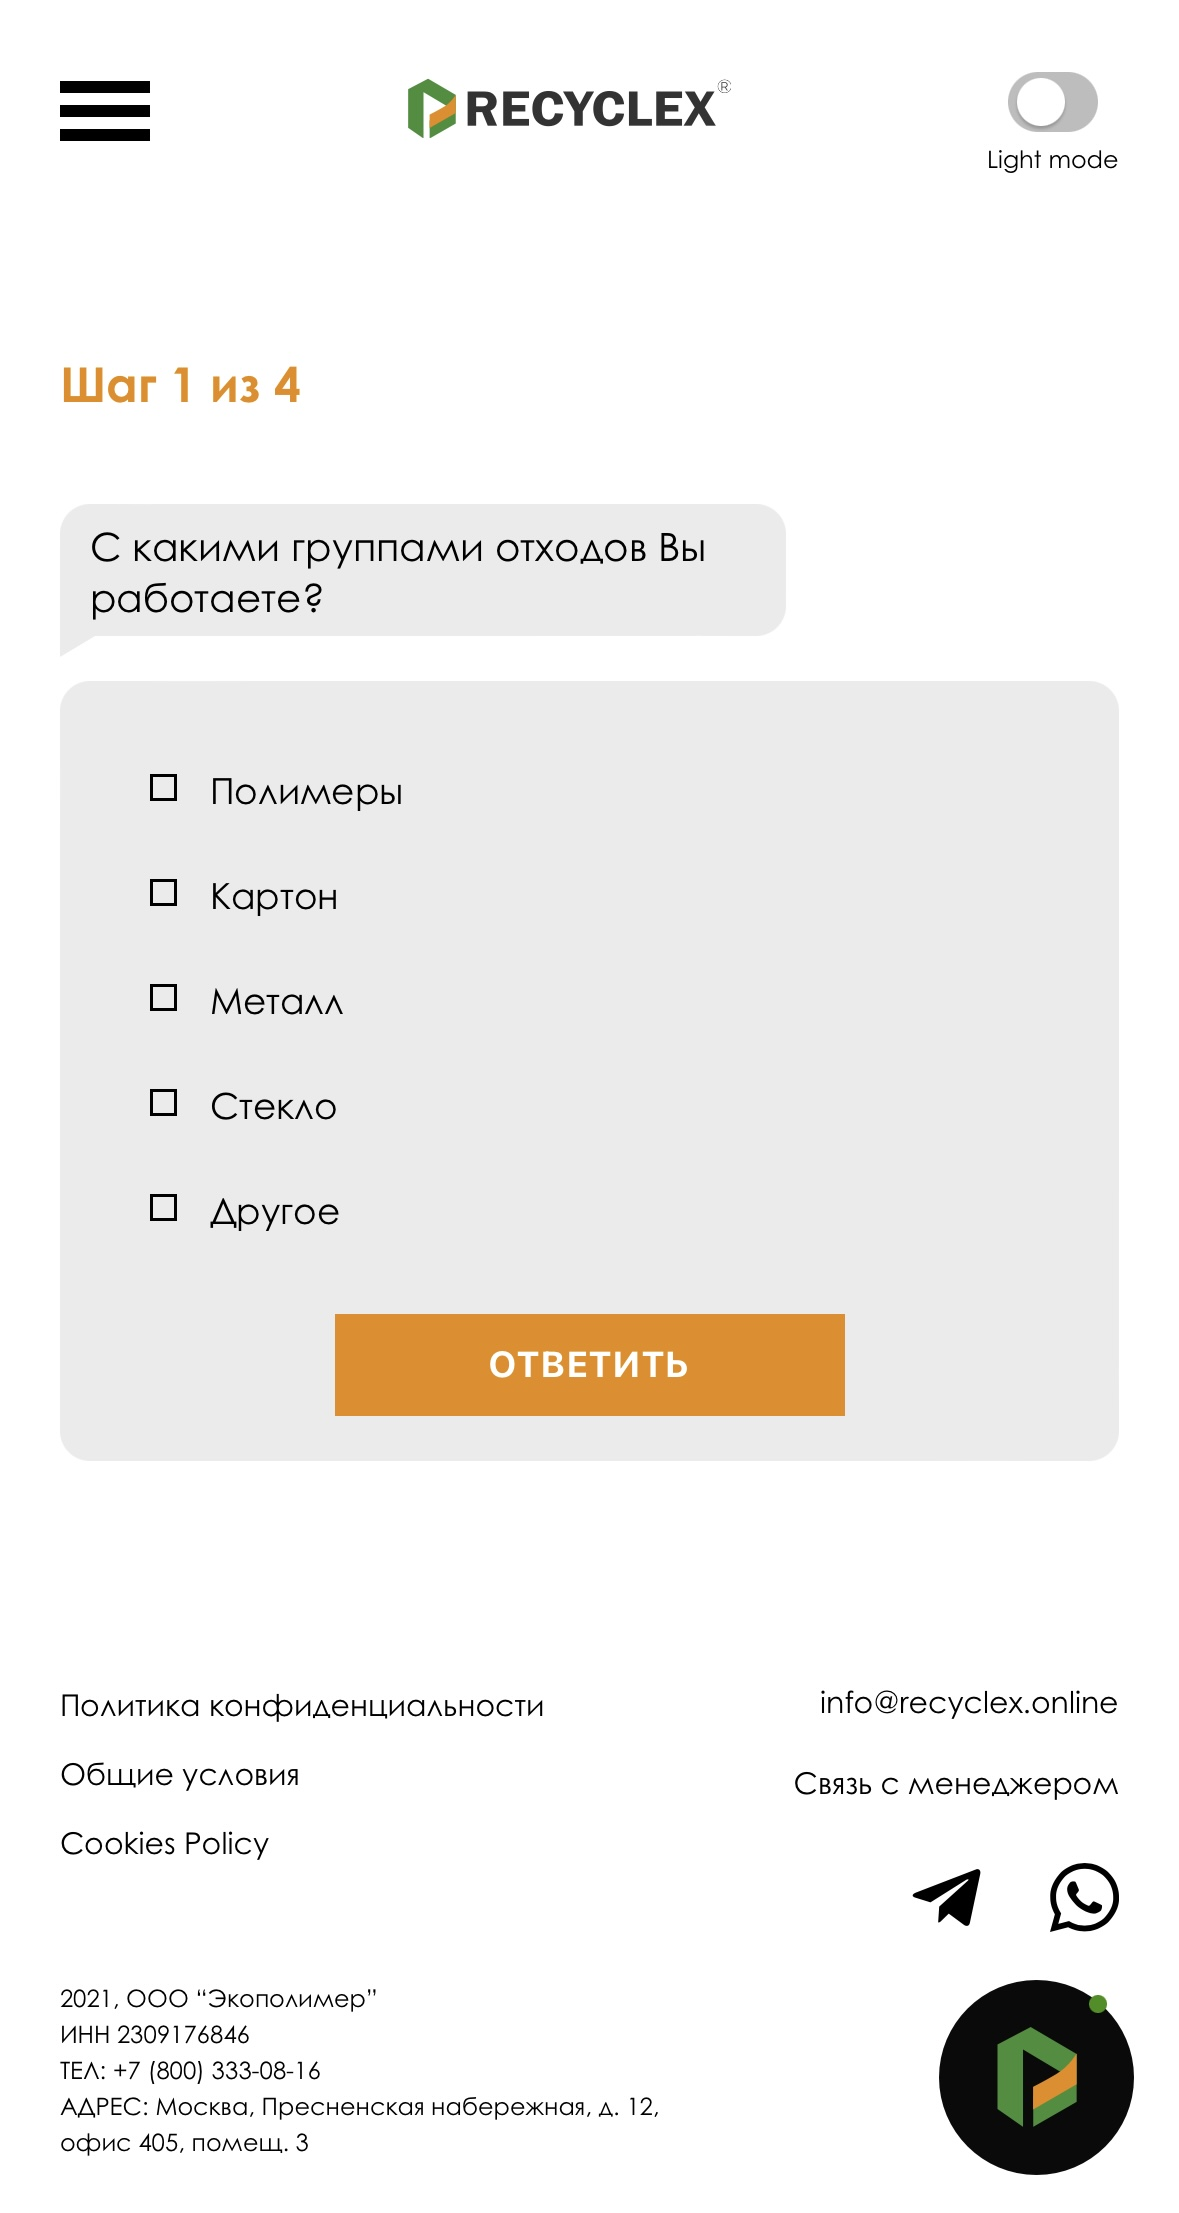
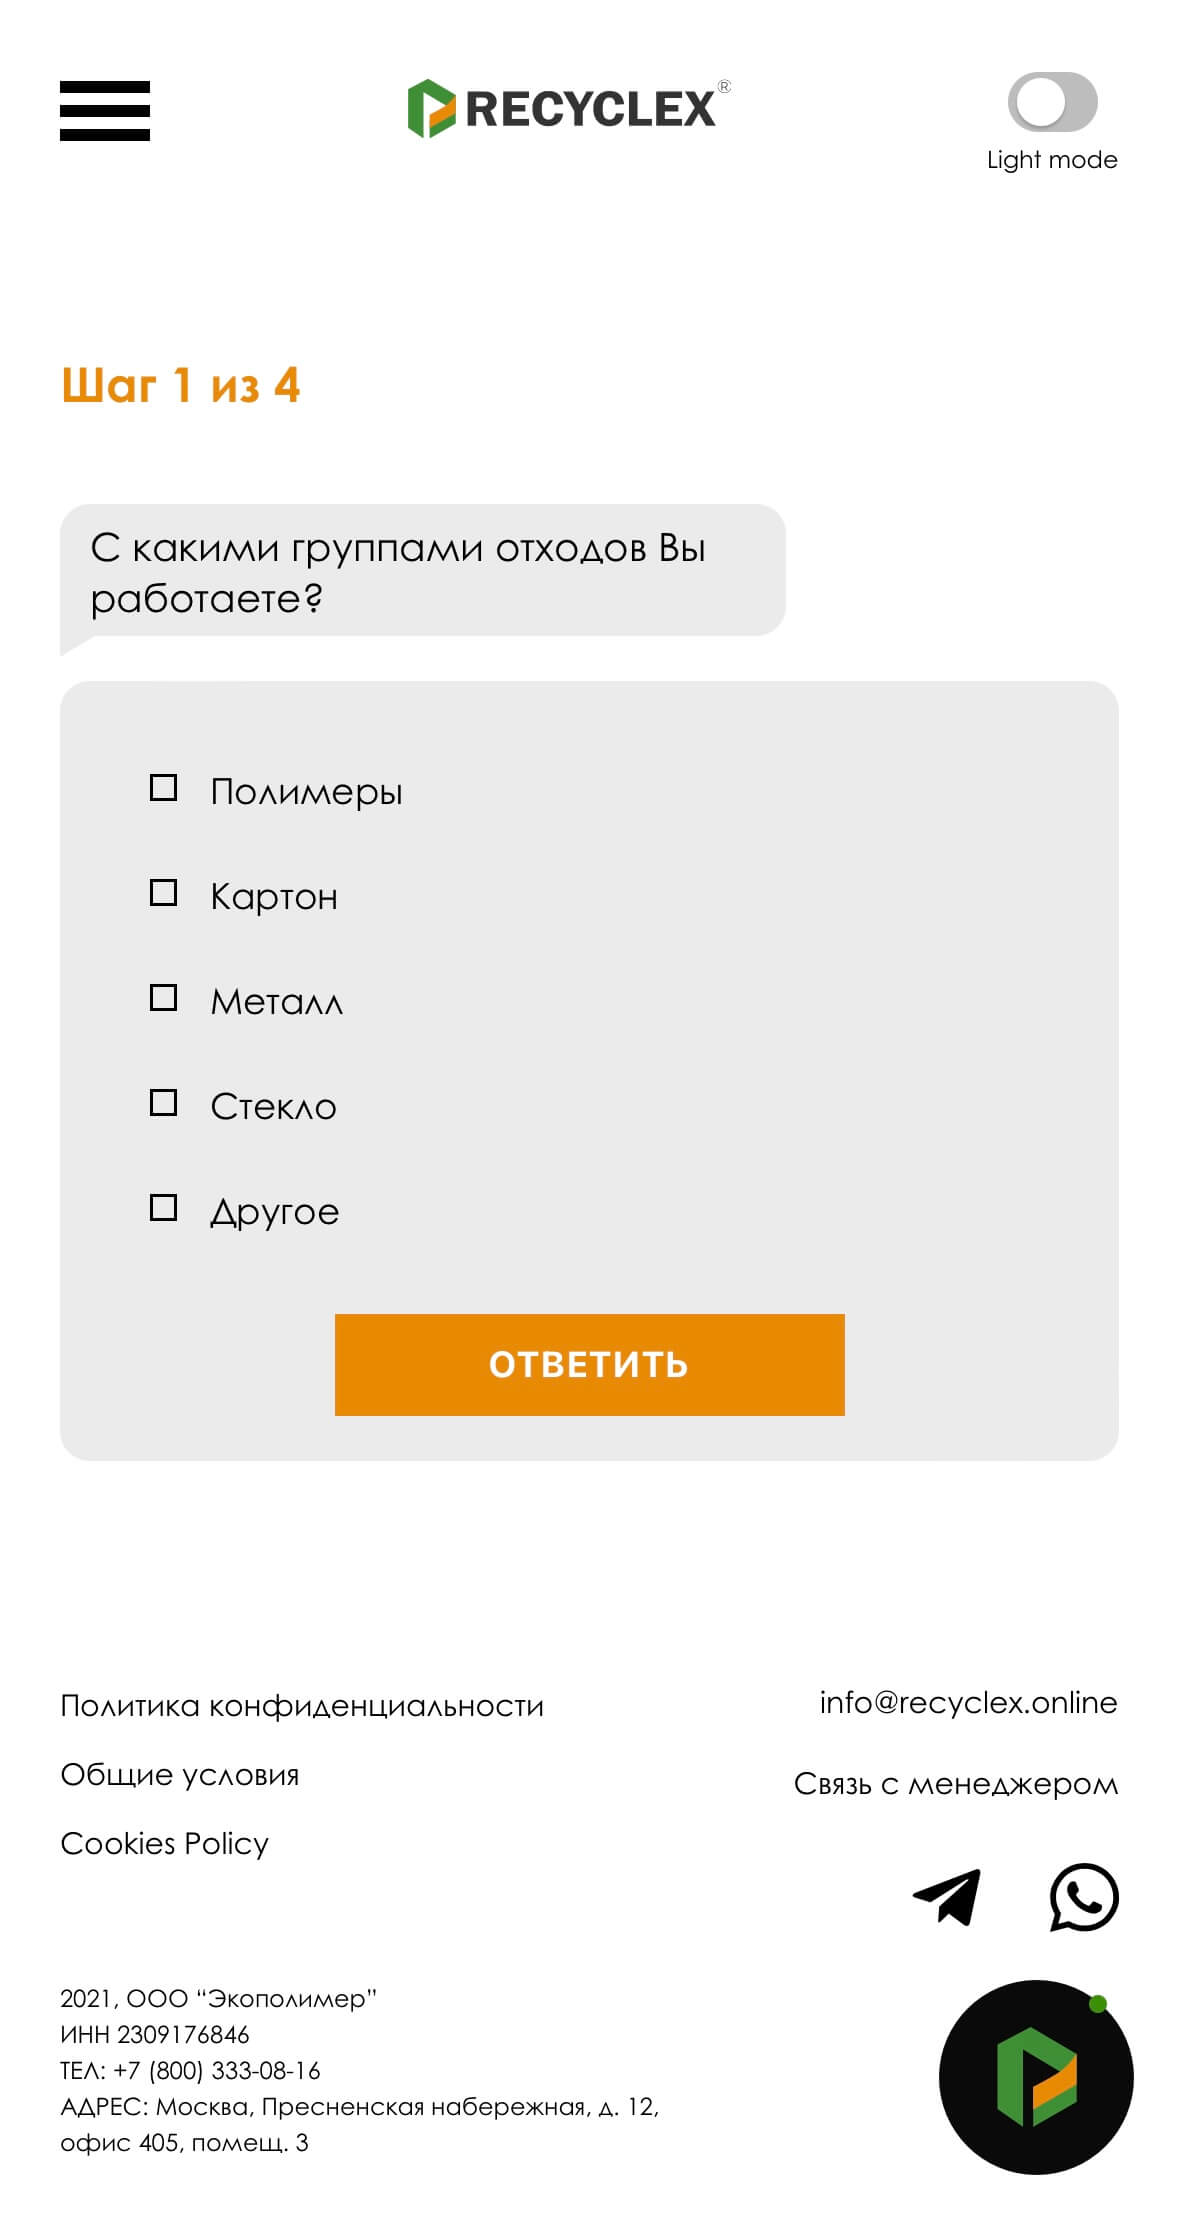
Changed sizes for screens

diff --git a/src/components/Portfolio/projects.js b/src/components/Portfolio/projects.js
@@ -7,7 +7,7 @@ export const projects = [
     websait: "https://recyclex.pro/",
     description: [
       "Адаптивная валидная верстка по макету из Figma",
-      "Форма заявки с анимацией по шагам формы",
+      "Форма заявки с анимацией по шагам в виде переписки",
       "Анимация кнопок",
       "Смена темы сайта со светлой на темную"
     ],

diff --git a/src/components/Profile/Profile.tsx b/src/components/Profile/Profile.tsx
@@ -15,7 +15,7 @@ export function Profile() {
             className="profile__button"
             target="_blank"
             rel="noopener noreferrer"
-            href="https://drive.google.com/file/d/1A85MtM-R5M_bobYrPtEU5i01gyatTL-e/view">
+            href="https://drive.google.com/file/d/1tzVyyqxNBpPaPcjgJxg78ye_Lbca3XEX/view">
             Скачать резюме
           </a>
         </div>

diff --git a/src/components/PortfolioItem/PortfolioItem.scss b/src/components/PortfolioItem/PortfolioItem.scss
@@ -29,7 +29,7 @@
 }
 
 .portfolio__photos_orange {
-  background-color:#c8813f;
+  background-color:#d6aa80;
 }
 // #E88A01
 .portfolio__desktopWrapper {
